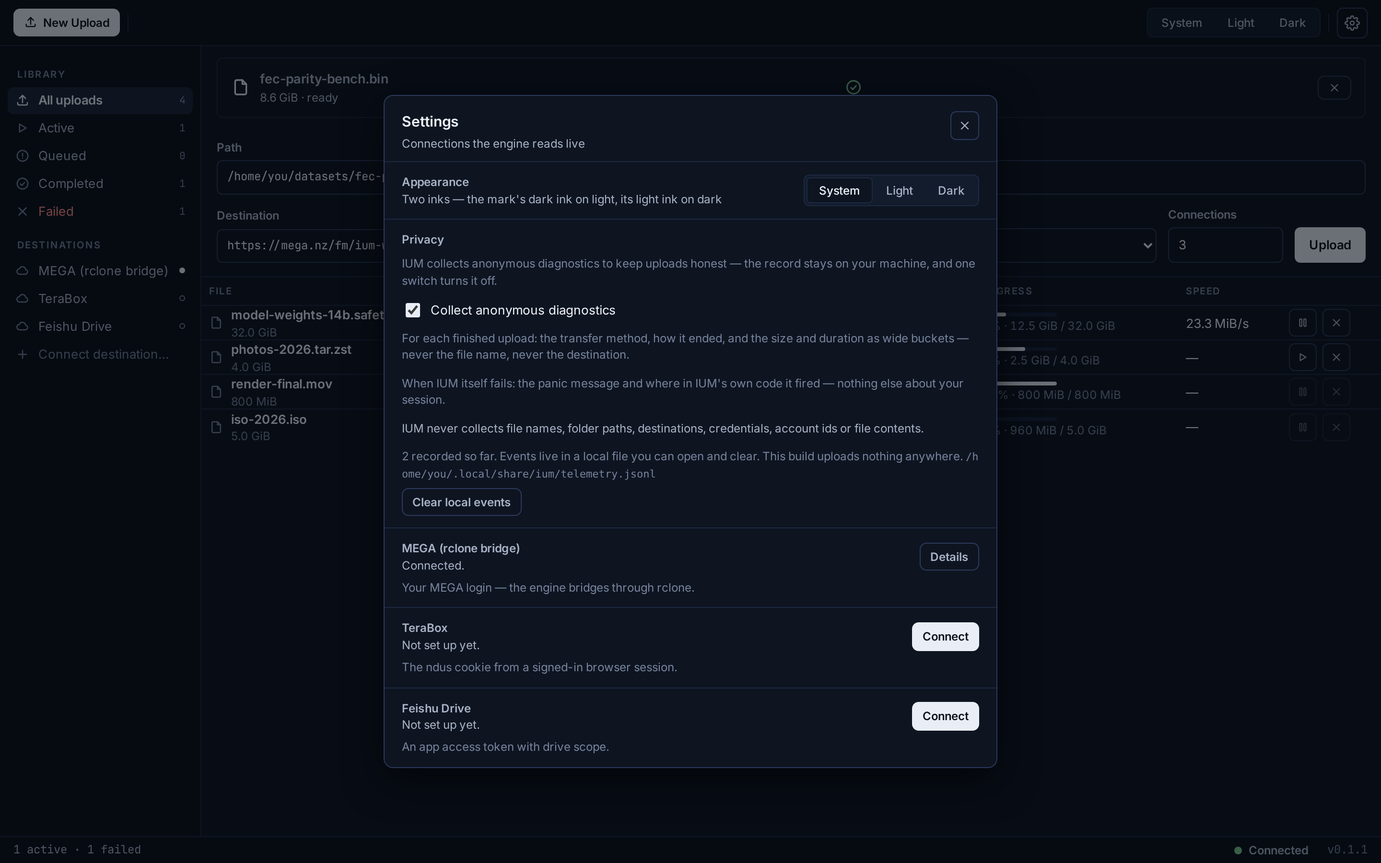
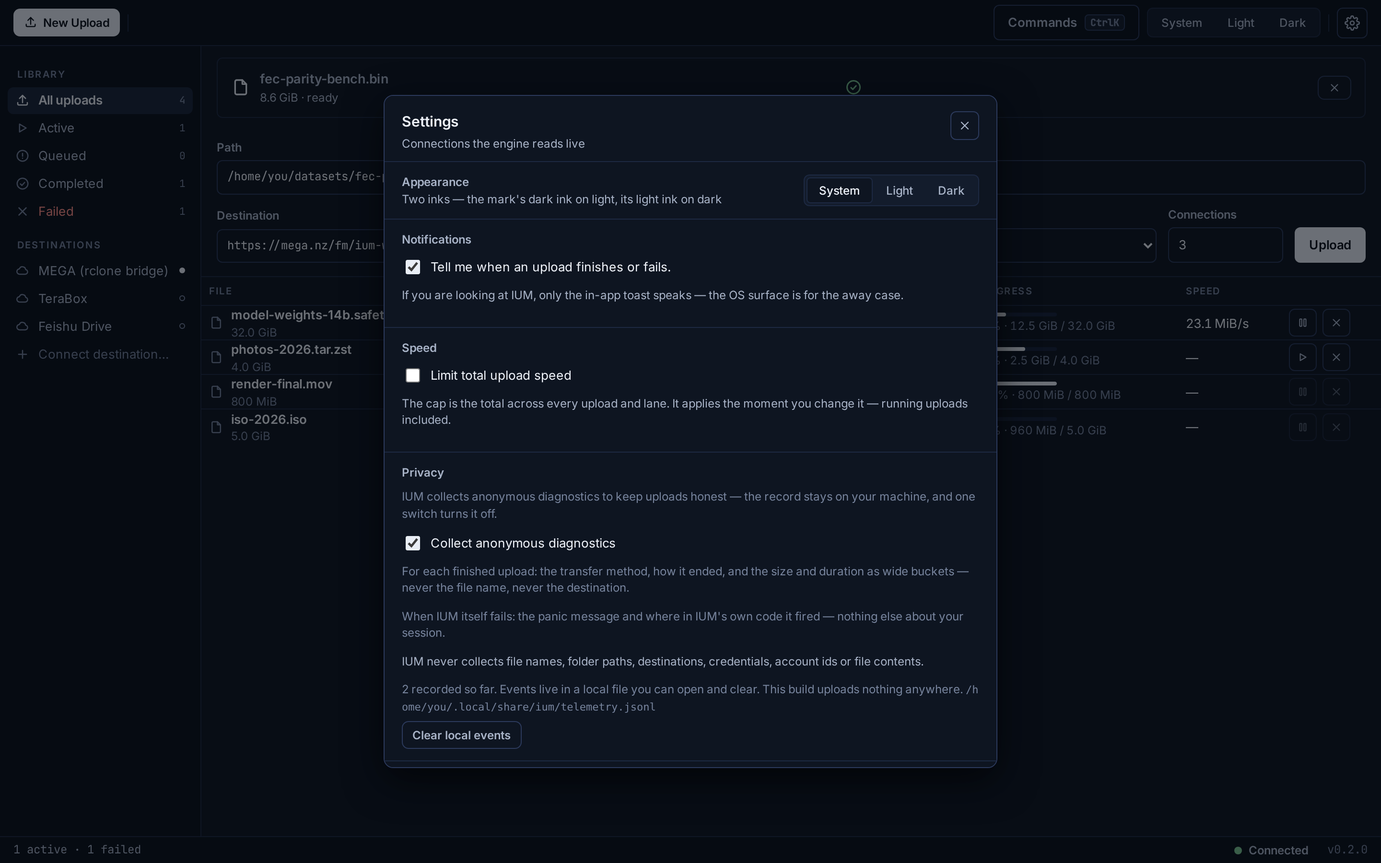
chore(status,release): the M14 closer — main protected, #93 + #94 closed, the 0.2.0 cut (refs #93, #94, #65)
- main IS PROTECTED: force-push + deletion blocked via the branches API
  (the owner's flag; the direct-push loop untouched — no PR-merge
  requirements; CI remains the oracle).
- Session rows M14#1-#3: OS notifications (#93, run 188 8/8 first
  verdict), the global speed cap (#94, run 189 8/8 first verdict — the
  pins caught the single-shot deadlock + the over-sleep pre-landing), and
  the 0.2.0 cut: CHANGELOG [0.2.0] — 2026-11-08, version 0.1.1 -> 0.2.0
  in the workspace + package.json + tauri.conf + every engine-sentence
  fixture + the screenshot harness, README un-staled (badge 321 core +
  163 UI; the roadmap states the four landed lanes; Next = the
  owner-pinned waits), all six product shots re-shot through the real
  harness.
- Done rows for #93/#94/main-protected; the disk-pressure lesson recorded
  (lean debug profile env-scoped for the local gate).
- The tag v0.2.0 rides the NEXT push: release.yml builds the per-OS
  installers + latest.json (the #80 pipeline; unsigned bundles are a
  build failure by that pipeline's own rule — the code-signing cert
  stays the owner-pinned wait).

diff --git a/ium-app/src/anatomy.test.tsx b/ium-app/src/anatomy.test.tsx
@@ -36,7 +36,7 @@ function* ruleLines(): Generator<[string, string]> {
 }
 
 const ENGINE_SENTENCE =
-  "ium-core v0.1.1 ready — adapters: http_one_shot, s3_multipart, tus";
+  "ium-core v0.2.0 ready — adapters: http_one_shot, s3_multipart, tus";
 
 vi.mock("./api", () => ({
   api: {
@@ -189,7 +189,7 @@ describe("the anatomy in the rendered shell (#88)", () => {
     const { container } = render(<App />);
     await waitFor(() => expect(container.querySelector(".statusbar")).not.toBeNull());
     const bar = container.querySelector(".statusbar")!.textContent ?? "";
-    expect(bar).toContain("v0.1.1");
+    expect(bar).toContain("v0.2.0");
     expect(bar).not.toContain("adapters:");
     expect(bar).not.toMatch(/ium-core v/);
   });
@@ -198,7 +198,7 @@ describe("the anatomy in the rendered shell (#88)", () => {
 describe("parseVersion — the status bar's one piece of presentation math", () => {
   it("reads the engine's own sentence, or admits it cannot", async () => {
     const { parseVersion } = await import("./logic");
-    expect(parseVersion(ENGINE_SENTENCE)).toBe("v0.1.1");
+    expect(parseVersion(ENGINE_SENTENCE)).toBe("v0.2.0");
     expect(parseVersion("no version in here")).toBeNull();
     expect(parseVersion("ium-core v10.20.30 ready")).toBe("v10.20.30");
   });

diff --git a/ium-app/src/updater.test.tsx b/ium-app/src/updater.test.tsx
@@ -27,7 +27,7 @@ vi.mock("./updater", () => updaterMock);
 vi.mock("./api", () => ({
   api: {
     engineStatus: () =>
-      Promise.resolve("ium-core v0.1.1 ready — adapters: http_one_shot, s3_multipart, tus"),
+      Promise.resolve("ium-core v0.2.0 ready — adapters: http_one_shot, s3_multipart, tus"),
     listAdapters: () => Promise.resolve([]),
     listJobs: () => Promise.resolve([]),
     credentialsSchema: () => Promise.resolve([]),

diff --git a/ium-app/src/logic.ts b/ium-app/src/logic.ts
@@ -142,7 +142,7 @@ export function hostOf(endpoint: string): string {
 
 /**
  * The engine's version, read from the engine's own sentence (#88): the
- * status bar speaks the SHORT truth — `v0.1.1` — never the raw sentence
+ * status bar speaks the SHORT truth — `v0.2.0` — never the raw sentence
  * (the #77 quiet-chrome law). Null when there is nothing honest to show.
  */
 export function parseVersion(detail: string): string | null {

diff --git a/ium-app/src/readme.test.ts b/ium-app/src/readme.test.ts
@@ -1,7 +1,7 @@
 /**
  * The README gate (#77): the README ships with receipts — the committed
  * product screenshots are embedded, and the roadmap section reflects the
- * tree's real state (v0.1.1, product-bar lanes closed, the telemetry
+ * tree's real state (v0.2.0, product-bar lanes closed, the telemetry
  * stance on record), not a stale M0–M7 / v0.1.0 snapshot.
  */
 import { readFileSync } from "node:fs";

diff --git a/ium-app/src/header.test.tsx b/ium-app/src/header.test.tsx
@@ -12,7 +12,7 @@ import { describe, expect, it, vi, afterEach } from "vitest";
 import { render, cleanup } from "@testing-library/react";
 
 const ENGINE_SENTENCE =
-  "ium-core v0.1.1 ready — adapters: http_one_shot, s3_multipart, tus";
+  "ium-core v0.2.0 ready — adapters: http_one_shot, s3_multipart, tus";
 
 vi.mock("./api", () => ({
   api: {

diff --git a/ium-app/src/command-palette.test.tsx b/ium-app/src/command-palette.test.tsx
@@ -34,7 +34,7 @@ async function expectAccessible(el: HTMLElement): Promise<void> {
 }
 
 const ENGINE_SENTENCE =
-  "ium-core v0.1.1 ready — adapters: http_one_shot, s3_multipart, tus";
+  "ium-core v0.2.0 ready — adapters: http_one_shot, s3_multipart, tus";
 
 const jobRecord = (id: string, state: string) => ({
   id,

diff --git a/scripts/screenshots.py b/scripts/screenshots.py
@@ -25,7 +25,7 @@ OUT = "/home/z/my-project/download/screenshots"
 DOCS = "/home/z/my-project/docs/screenshots"
 os.makedirs(OUT, exist_ok=True)
 
-ENGINE_SENTENCE = "ium-core v0.1.1 ready — adapters: http_one_shot, s3_multipart, tus"
+ENGINE_SENTENCE = "ium-core v0.2.0 ready — adapters: http_one_shot, s3_multipart, tus"
 
 # The OFFICIAL Tauri mock harness (node_modules/@tauri-apps/api/mocks.cjs),
 # inlined into the page by the bootstrap below. Vendor protocol, not a
@@ -171,7 +171,7 @@ SHIM = r"""
     args = args || {};
     switch (cmd) {
       case "engine_status":
-        return "ium-core v0.1.1 ready — adapters: http_one_shot, s3_multipart, tus";
+        return "ium-core v0.2.0 ready — adapters: http_one_shot, s3_multipart, tus";
       case "list_adapters":
         return ["http_oneshot", "s3_multipart", "tus", "feishu_drive", "terabox", "mega"];
       case "list_jobs":

diff --git a/STATUS.md b/STATUS.md
@@ -4,7 +4,7 @@
 > updated and pushed to GitHub. It is the recovery point for a recycled sandbox. Read it FIRST
 > in every session, before touching any file.
 >
-> Last updated: **(M13 CLOSED — the owner's three ordered lanes all landed and closed. #90 the curl sweep: `-f` + digest guards on the remaining fetch sites (release.yml syft, stress.yml media, dbg-s3-iso.sh, issue50/55 rehearsals, release_supply_chain_check.sh), CI 8/8 on `d349ef8` (run 182). #91 the ⌘K command palette: the owner-approved mockup became behavior — 640 px surface, real commands (New upload/Retry/Pause/Remove/Go-to/Connect/Settings), filter + arrow-wrap + Enter + esc + scrim, 15 pins, suite 144/144, CI 8/8 on `97e2260` (run 183), zero new deps. #92 materials: Windows 11 Mica behind the Ink chrome, build-gated (`parse_windows_build` unit-tested on every runner, verdict = OS build ≥ 22000 + a successful apply, everything else opaque; the composited Mica scheme joined the ink AA audit) — CI earned its keep twice: run 184 caught E0603 on Windows (private `WindowEffect` re-import in tauri-utils 2.10.2) + 3 dead-code/unused lints on non-Windows, run 185 caught the last parser dead-code; fixes `9d54534` + `0abca16`; **run 186: 8/8 success** incl. the ium-app shell lane on all three OS. All three issues closed completed with evidence on the issues. PR #78 verified open + intact again this session (the deliberate design-review record, untouched); nightly green since the rerun. Sandbox recycle #15 wiped `.secrets/` + `.toolchain/` + node_modules (all restored: 10th PAT restore, install-toolchain.sh, npm ci). NEXT: owner's queue — nothing pending on the repo; queued waits unchanged (code-signing cert, OAuth client registration) | M13 closer | this commit)**
+> Last updated: **(M14 LANDED — the Sprint-2 gaps closed and the 0.2.0 cut on the record. MAIN IS PROTECTED (the owner's flag chased by the owner's own token): force-push + deletion blocked via the branches API (PUT 200); the direct-push loop untouched — no PR-merge requirements set. #93 OS notifications: full loop — issue + design note → RED (module unresolvable, comment 6726052177) → the pure transition rule (first-sight silent, idempotent, focus-aware) + the copy matrix (basename only) + ONE detector on the jobs array + Rust-side send (`tauri-plugin-notification` 2.8.0, API verified against the crate source — zero new JS packages, no capability grant) + the Settings card → CI run 188 8/8 FIRST verdict → closed completed (6726258338). #94 the global speed cap: design note (6726274873) → RED (`unresolved ium_core::rate`, 6726298606) → the global Bucket (sliced grants — the pins caught the single-shot deadlock AND an over-sleeping shortfall pre-landing) + the pre-lease acquire (outside the eviction window: zero false evictions by construction; nothing held during the wait — the loop-top owns every flag) + policy-knob persistence (shell-side, boot re-apply) + the Speed card → CI run 189 8/8 FIRST verdict → closed completed (6727138420). Core 313→321 (tokio `start_paused` virtual-time pins; measure with tokio's clock, never std's), shell 157→163. THE CUT: CHANGELOG [0.2.0] — 2026-11-08 (the design-and-manners cut), version fields 0.1.1→0.2.0 everywhere (workspace, package.json, tauri.conf, all test fixtures, the screenshot harness sentence), README un-staled (badge 321+163, the roadmap states the four landed lanes, owner-pinned waits only), all six product shots re-shot through the real harness. Tag v0.2.0 next push → release.yml builds the installers. The disk-pressure saga: the rootfs filled to 100% twice (the 6.7 GB debug-info target + the node_modules reaper) — the gate now runs with CARGO_PROFILE_DEV_DEBUG=line-tables-only (env-scoped, not committed; panic line numbers survive). | M14 closer | this commit)**
 
 ---
 
@@ -41,6 +41,9 @@ the Tauri/React shell (`ium-app/`) is **frozen** until M2+M3 (ADR-006).
 
 | Date | Item | Evidence |
 |---|---|---|
+| 2026-11-08 | **Issue #94 closed**: the global speed cap — one Settings knob, bytes/sec across ALL jobs and lanes (the cap divides the bearer sum), hot, eviction-safe by construction (the acquire sits before the lease, outside the eviction-tracked window), policy-knob persistence (shell-side, boot re-apply). The pins caught the single-shot deadlock + an over-sleeping shortfall pre-landing | **CI run 189: 8/8 first verdict**; core 321/321 (virtual-time pins); design note 6726274873; RED 6726298606; GREEN 6727138420 |
+| 2026-11-08 | **Issue #93 closed**: OS notifications for the two terminal job states — the pure transition rule (first-sight silent, idempotent, focus-aware), the copy matrix (basename only), ONE detector on the jobs array, Rust-side send (zero new JS packages, no capability grant, guarded), the Settings card | **CI run 188: 8/8 first verdict**; shell 157/163 pins RED→GREEN; RED 6726052177; GREEN 6726258338 |
+| 2026-11-08 | **main is protected** (the owner's branch-protection warning chased): force-push + deletion blocked via the branches API with the owner's own token | PUT 200; direct-push loop untouched (no PR-merge requirements) |
 | 2026-11-08 | **Issue #92 closed**: materials — Windows 11 Mica behind the Ink chrome, build-gated (OS build ≥ 22000 + a successful apply; platform-free parser unit-tested on every runner; chrome tokens translucent only under the verdict, ink text opaque; composited Mica scheme joined the ink AA audit). CI caught two real rounds (run 184: E0603 private `WindowEffect` re-import on Windows + 3 non-Windows lints; run 185: the last parser dead-code) — fixes `9d54534`/`0abca16` | **CI run 186: 8/8** incl. ium-app shell lane ×3 OS; RED comment 6725196893; CI diagnosis 6725385150; GREEN evidence 6725632110 |
 | 2026-11-08 | **Issue #91 closed**: the ⌘K command palette — the owner-approved mockup became behavior (`CommandPalette.tsx`: 640 px surface over its own smoke scrim, 36 px rows, keycaps, filter + arrow-wrap + Enter + esc; every command real; toolbar ⌘K chip = entry) | 15 palette pins; vitest 144/144 (17 files); CI 8/8 (run 183); zero new deps |
 | 2026-11-08 | **Issue #90 closed**: the curl hardening sweep — `-fsSL --retry` + digest-format guards on the remaining fetch sites (issue50/55 wire rehearsals, release.yml syft attestation, stress.yml sample media, dbg-s3-iso.sh, release_supply_chain_check.sh) | bash -n all four scripts; YAML parse both workflows; CI 8/8 (run 182) |
@@ -474,6 +477,9 @@ Invariants, design details: `docs/02_IUM_MVP_Spec_v1.md`, `docs/03_Sprint0_Engin
 
 | Date | Task | Outcome | Commit |
 |---|---|---|---|
+| 2026-11-08 (M14#3 — the 0.2.0 cut + main protected) | **The remaining milestone: release engineering, and the owner's branch-protection warning.** MAIN IS PROTECTED: the branches API (the owner's own token carries Administration) — force-push + deletion blocked, direct-push loop untouched (no PR-merge requirements: the loop lands by push, CI is the oracle). THE CUT: CHANGELOG `[0.2.0] — 2026-11-08` (the design-and-manners cut: Ink completion, ⌘K, Mica, notifications, speed cap, destinations, auth, auto-update, curl hardening — every entry cites its issue); version 0.1.1 → 0.2.0 in the workspace, package.json, tauri.conf.json, every test fixture that pins the engine sentence, and the screenshot harness; README un-staled (badge **321 core + 163 UI**, the roadmap states the four landed lanes, Next = the owner-pinned waits only); all six product shots re-shot through the real harness (the Settings shots now carry the Notifications + Speed cards; the status bar speaks v0.2.0); readme receipts gate green. Tag `v0.2.0` rides this push → release.yml builds the per-OS installers + latest.json | gate.sh GREEN (env-scoped lean debug profile — the rootfs hit 100% twice on the 6.7 GB debug target; the reaper kept eating node_modules); CI verdict pending on this push | this commit |
+| 2026-11-08 (M14#2 — the global speed cap, Closes #94) | **The second Sprint-2 gap: the engine learns to be polite.** Design note on the issue (6726274873) — the seam is a pre-LEASE acquire (nothing held during the wait: an abort/pause/resplit mid-wait re-runs the loop top — no stranded lease, no duplicated #47 guard; and the wait sits OUTSIDE the eviction-tracked upload window: a capped wait can never be sampled as a stalled chunk — zero false evictions by construction); the persistence is a POLICY KNOB (the set_policy family's shape — runtime state, not journal truth; the shell persists + re-asserts at boot — an honest correction to the sketch's "journaled"). RED (6726298606): `unresolved import ium_core::rate`. THE BUCKET: lazy refill, starts full (one burst), sliced grants — **the pins caught two real defects pre-landing**: the single-shot deadlock (a request larger than one cap-second could NEVER be satisfied — 5 MiB lease under 50 KB/s = forever) and the over-sleeping shortfall (sleep the whole deficit, grant one burst ⇒ 19 s slept for 100 B). The lesson the RED enforced: under tokio `start_paused`, measure with TOKIO's clock — std's Instant reads the real wall (elapsed 158 µs). Shell: set_rate_cap command, the Speed card (checkbox + KB/s + the stated contract), boot re-apply, SPEED_COPY brand-gated, speed.test.ts (garbage prefs degrade to unlimited — a preference is never a crash). Gates: fmt clean, clippy `-D warnings` clean, core **321/321** (6 integration + 2 unit, virtual time), shell **163/163**; CI run 189 **8/8 first verdict**; closed completed (6727138420) | CI 8/8; two pre-landing defect catches; #94 closed | 451cc20 |
+| 2026-11-08 (M14#1 — OS notifications for terminal states, Closes #93) | **The first Sprint-2 gap closed end to end.** Issue + design note → RED at HEAD (module unresolvable, 6726052177). THE SWAP: `notify.ts` — the PURE transition rule (`notifyDraftFor`: first sight silent, same-state idempotent, `running|queued|paused → done` and `any → failed` notify once, focused window silent — the OS surface is for the away case; the persisted pref rides the theme store's shape) + the basename rule (POSIX and Windows separators; no machine paths leave the machine); ONE detector in App.tsx watches the jobs array (listener + 4 s poll + manual refresh all land in the same array — no double fires); the failure's raw words from the newest event payload carrying `error`, humanized by the copy table (a quiet journal = the honest no-cause body); the copy matrix `NOTIFICATIONS_COPY` walked by the brand gate; the Settings **Notifications** card. The send is RUST-side (`notify_user` command; `tauri-plugin-notification` 2.8.0 — the API verified against the real crate source BEFORE the push: `NotificationExt` → `builder().title().body().show() -> Result`): zero new JS packages, no capability grant (the ACL gates webview IPC, not in-process calls), every send guarded (a missing daemon or denied permission = silent no — the #80 lesson). Gates: shell **157/163** (11 new pins), tsc strict, gate.sh GREEN; CI run 188 **8/8 FIRST verdict**; closed completed (6726258338) | CI 8/8 first verdict; #93 closed | 6a96623 |
 | 2026-11-08 (M13#8 — materials: Windows 11 Mica behind the Ink chrome, #92) | **The third owner-ordered lane — and CI earned its keep twice.** The verdict is an OS fact, not an API opinion (tauri wire fact: on Win10 `set_effects` can answer Ok while the window renders fully transparent) — so the gate reads the build: `parse_windows_build` (platform-free, unit-tested on EVERY runner: 22631/22000 pass, 19045 fails, garbage → 0), `real_windows_build` (`cmd /c ver`, dependency-free), `platform_material` = build ≥ 22000 AND a successful Mica apply; the frontend applies it pre-paint (`data-material` before React mounts — no flash); CSS transluces ONLY the two chrome tokens under the verdict, ink text tokens stay opaque; the composited Mica scheme joined `ink_contrast_audit.py` (effective backgrounds chained, same AA pairs, clean all four). Loop: issue #92 filed with the design note as the body → RED re-reproduced FRESH at the parent tree (the 2 verdict pins vs pre-lane theme.ts: `TypeError: applyPlatformMaterial is not a function`, 2 failed / 10 passed — comment 6725196893) → gates GREEN on the committed tree (vitest 146/146, 17 files) → push → **CI RED run 184**: 4 lib errors (unused `app`, 2 dead-code, clippy manual_pattern_char_comparison) + **E0603 on Windows** — `tauri::utils::config::WindowEffect` is a PRIVATE re-import in tauri-utils 2.10.2; the fix `9d54534` verified the public surface before writing it (`pub use tauri_utils as utils`, `set_effects(impl Into<Option<WindowEffectsConfig>>)` desktop-only, config derives Default) and made the verdict one platform-free expression (`real_windows_build() >= 22000 && apply_mica(&app)`, two cfg variants of apply_mica) → **CI RED run 185**: one residual dead-code (the parser has no non-Windows lib caller — only tests reference it) → `0abca16` with the precise `cfg_attr(all(not(windows), not(test)), allow(dead_code))` (bare `expect` would backfire on the lib-test target) → **run 186: 8/8 SUCCESS** incl. the ium-app shell lane on all three OS; app-e2e neutrality held (Linux answers false → the WebDriver lane drove the unchanged opaque shell). Closed completed with evidence (6725632110). Verification honesty preserved: the sandbox has no Windows — the compositor verdict itself lands when the owner runs the next Windows build | CI run 186 8/8; two CI-caught defect rounds fixed; #92 closed | 44cd024 + 9d54534 + 0abca16 |
 | 2026-11-08 (M13#7 — the ⌘K command palette: keyboard-first, #91) | **The owner-approved mockup ("Ok go ahead") became behavior.** `CommandPalette.tsx`: 640 px surface (the Settings modal's width token) at 96 px over its own smoke scrim, 48 px input with search glyph + esc keycap, 36 px rows with ink active state, mono keycaps right-aligned, hairline footer (↑↓ navigate · ↵ run · esc close + command count); filter + arrow-wrap + Enter + esc + scrim-click + row keycaps; every command real (New upload ⌘N opens the form, Retry failed re-fires the lane, Pause all, Remove completed, Go-to jumps, Connect opens the one-click list, Settings opens the dialog — wired through the real handlers, no stubs); the toolbar ⌘K chip is the visible entry point; zero new JS deps, motion ≤ 150 ms. RED at HEAD: 14 failed / 1 passed (module unresolvable + every behavior pin); GREEN: **144/144 across 17 files** (was 129/129 — +15 palette pins), tsc strict, build 212.75 KB JS / 66.09 KB gzip, axe clean with the dialog open, CI 8/8 (run 42493687154) incl. app-e2e on WebKitGTK — no pinned seam disturbed | 15 palette pins green; every command real; CI 8/8; #91 closed | 97e2260 |
 | 2026-11-08 (M13#6 — the curl hardening sweep, Closes #90) | **#89's defect class chased out of the whole repo.** The remaining fetch sites got the same `-fsSL --retry 3 --retry-delay 2` fail-loud treatment + digest-format guards before every compare: `issue50_wire_rehearsal.sh` + `issue55_wire_rehearsal.sh` (both fetches each), `release.yml` syft attestation fetch, `stress.yml` sample-media fetch, `dbg-s3-iso.sh` image fetch, `release_supply_chain_check.sh` attested-asset fetch. bash -n on all four scripts; YAML parse on both workflows; zero engine surface touched. CI 8/8 on the landing commit (run 182); #90 closed completed | 6 sites hardened; nothing escapes the #89 class | d349ef8 |

diff --git a/README.md b/README.md
@@ -16,7 +16,7 @@ crashes and reboots — with *honest* badges where physics says a protocol canno
 [![nightly](https://github.com/kahlanhamza/IUM/actions/workflows/nightly.yml/badge.svg)](https://github.com/kahlanhamza/IUM/actions/workflows/nightly.yml)
 [![stress](https://github.com/kahlanhamza/IUM/actions/workflows/stress.yml/badge.svg)](https://github.com/kahlanhamza/IUM/actions/workflows/stress.yml)
 ![rust](https://img.shields.io/badge/rust-stable%201.99-blue)
-![tests](https://img.shields.io/badge/tests-313%20core%20%2B%20129%20UI-brightgreen)
+![tests](https://img.shields.io/badge/tests-321%20core%20%2B%20163%20UI-brightgreen)
 ![platform](https://img.shields.io/badge/platform-linux%20%7C%20macOS%20%7C%20Windows-lightgrey)
 
 </div>
@@ -41,7 +41,7 @@ window), never in the chrome.
 | | |
 |---|---|
 | ![The main window — toolbar, library sidebar, intake, the dense upload list, the status bar](docs/screenshots/01-main-window.png) | ![The intake filled — a stat'ed file, destination, protocol](docs/screenshots/02-create-upload-filled.png) |
-| ![The docked inspector — the chunk grid, the job summary, the live journal](docs/screenshots/03-inspector-chunks.png) | ![Settings — the centered modal: the Privacy card leads, the vault lanes follow](docs/screenshots/04-settings-privacy.png) |
+| ![The docked inspector — the chunk grid, the job summary, the live journal](docs/screenshots/03-inspector-chunks.png) | ![Settings — the centered modal: Appearance, Notifications and Speed lead, the Privacy stance follows](docs/screenshots/04-settings-privacy.png) |
 | ![Settings — the credentials vault and About](docs/screenshots/05-settings-credentials.png) | ![The light scheme — the logo ink on paper white](docs/screenshots/06-main-window-light.png) |
 
 Every progress percent you see is journal truth — a paused, done or failed row shows
@@ -212,29 +212,32 @@ checksum-verified. Report vulnerabilities via a private GitHub security advisory
 
 ## Status & roadmap
 
-Milestones **M0–M9 are complete**: the engine (chunk algebra, journal, supervisor,
+Milestones **M0–M13 are complete**: the engine (chunk algebra, journal, supervisor,
 three transports), the speed architecture (link prober, adaptive fleet, lane floors,
-idle-progress timeouts), the KB/s ladder, the FEC and compression lanes, and the
-real-shell e2e. The **product bar** (#66) closed lane by lane with the same loop: the
-design system, the credentials vault, the error-copy table, the brand sheet and voice
-gate, the `.gitattributes` pin, the **written telemetry stance** (opt-out, local-only —
-#75), and the RE-resistance release bar (#76).
+idle-progress timeouts), the KB/s ladder, the FEC and compression lanes, the
+real-shell e2e, and the full Ink design program. The **product bar** (#66) closed lane
+by lane with the same loop: the design system, the credentials vault, the error-copy
+table, the brand sheet and voice gate, the `.gitattributes` pin, the **written
+telemetry stance** (opt-out, local-only — #75), and the RE-resistance release bar
+(#76).
 
 Since then: the **destination lanes** — WebDAV (#83), Google Drive one-click (#84 →
 #59), and YouTube with native resumable upload + the loopback Google sign-in (#85 →
 #60) — upload by **connecting the account**, plus painless auth (#81: OS-keychain
 secrets, hot lane registration, test-connection) and one-click connect sheets (#82).
 Signed auto-update (#80) ships in the shell. The **Ink program** is complete (#86 →
-#88): the two-ink palette with the logo-size ladder as repo law, the launch window
-(the dart at 96 px at first paint), and the four-pane chrome anatomy — the app looks
-like the mockups because the mockups' metrics are pinned by tests.
+#88), and its owner-ordered follow-ups landed: the **⌘K command palette** (#91 —
+keyboard-first, every command real), **Windows 11 Mica** behind the Ink chrome
+(#92 — build-gated: the OS verdict, not the API's opinion), **OS notifications**
+for the two terminal job states (#93 — focus-aware, basename-only, guarded), and
+the **global speed cap** (#94 — one knob, the sum across every upload and lane,
+hot, eviction-safe by construction).
 
-**Next (owner decides the order)**: keyboard-first polish (⌘K palette, shortcut map,
-hover row actions) and the materials pass (Windows 11 Mica, native menus) are queued
-design lanes. The release bar (#65) — per-OS installers — waits on the code-signing
-certificate, which only the owner can pin; the OAuth client id/secret for the Google
-lanes are likewise registered by the owner before the next release. Everything else
-currently open is polish under the standing product bar (#66).
+**Next (owner-pinned waits)**: the release bar (#65) — per-OS installers — waits on
+the code-signing certificate, which only the owner can pin; the OAuth client
+id/secret for the Google lanes are likewise registered by the owner before the next
+release. Everything else currently open is polish under the standing product bar
+(#66).
 
 ---
 

diff --git a/scripts/issue94_green_evidence.md b/scripts/issue94_green_evidence.md
@@ -1,0 +1,52 @@
+GREEN evidence — #94 (the global speed cap)
+
+Commit `451cc20` — **CI run 189 (42522928940): 8/8 success on the FIRST
+verdict** (core ×3 OS, ium-app ×3 OS, fmt, app-e2e on WebKitGTK).
+
+## RED → GREEN
+
+- RED at HEAD `6a96623` (comment 6726298606): `unresolved import
+  ium_core::rate` + no `set_rate_cap` anywhere in the engine — nothing
+  could be polite about bandwidth.
+- Design note first (comment 6726274873): the seam (pre-lease acquire),
+  the eviction-safety argument, the honest persistence correction
+  (policy knob, not journal truth — matching the set_policy family), the
+  slicing requirement.
+- GREEN: core **321/321** (313 + 6 integration pins + 2 bucket unit
+  tests), clippy `-D warnings` clean, fmt clean, gate.sh GREEN on the
+  committed tree; shell **163/163 across 19 files** (+6 speed pins), tsc
+  strict.
+
+## The pins caught two real defects pre-landing
+
+1. **The single-shot deadlock**: a burst-clamped bucket can never satisfy
+   an acquire larger than one cap-second — a 5 MiB lease under a 50 KB/s
+   cap would wait forever. Fix: sliced grants (any lease completes in its
+   fair `n/cap` time; the bucket never holds more than one burst).
+2. **The over-sleeping shortfall**: sleeping the WHOLE deficit overshoots
+   when the clamp bounds refill at one burst (19 s slept, 100 B granted).
+   Fix: the wait targets min(remaining, burst).
+
+Plus the lesson the RED measurements enforced: under tokio
+`start_paused` virtual time, pacing must be MEASURED with tokio's clock —
+`std::time::Instant` reads the real wall clock and reports microseconds.
+
+## What shipped
+
+- `ium-core/src/rate.rs`: the global Bucket (lazy refill, full-burst
+  start, unlimited = no-op, hot `set_rate`).
+- `manager.rs`: the acquire sits **before the lease** — nothing held
+  during the wait (an abort/pause/resplit mid-wait re-runs the loop top:
+  no stranded lease, no duplicated #47 guard), and the wait is OUTSIDE
+  the eviction-tracked window (a capped wait can never be sampled as a
+  stalled chunk — zero false evictions by construction). The paced size
+  is `outstanding_target()` (the eventual lease is that size or smaller:
+  honest-never-greedy).
+- `supervisor.rs` → `set_rate_cap` command → `api.setRateCap`; Settings →
+  **Speed** card (checkbox + KB/s field + the stated contract sentence);
+  boot re-apply; SPEED_COPY brand-gated.
+- Virtual-time pins: pacing exact (2000 B @ 100 B/s ⇒ 19 s), fleet SUM ≤
+  cap with 4 concurrent workers, unlimited zero-overhead, hot swap,
+  capped job byte-exact + eviction-safe end-to-end, uncapped prompt.
+
+Closing completed.

diff --git a/CHANGELOG.md b/CHANGELOG.md
@@ -8,7 +8,14 @@ All notable changes to IUM are documented here. Format follows
 Every entry cites its issue numbers — evidence lives in the tracker, not in
 prose. An entry without verifiable issue numbers does not belong here.
 
-## [Unreleased]
+## [0.2.0] — 2026-11-08
+
+The design-and-manners cut: the Ink program's completion (palette, launch window,
+chrome anatomy, logo ladder), the owner-ordered follow-ups (⌘K palette, Windows 11
+Mica, OS notifications, the global speed cap), the destination lanes (WebDAV,
+Google Drive, YouTube — connect-by-account), painless auth (keychain vault, hot
+lanes, test-connection), signed auto-update, and the supply-chain curl hardening.
+Every entry cites its issue; evidence lives in the tracker.
 
 ### Added
 - The global speed cap (#94): one knob in Settings → Speed — bytes/sec
